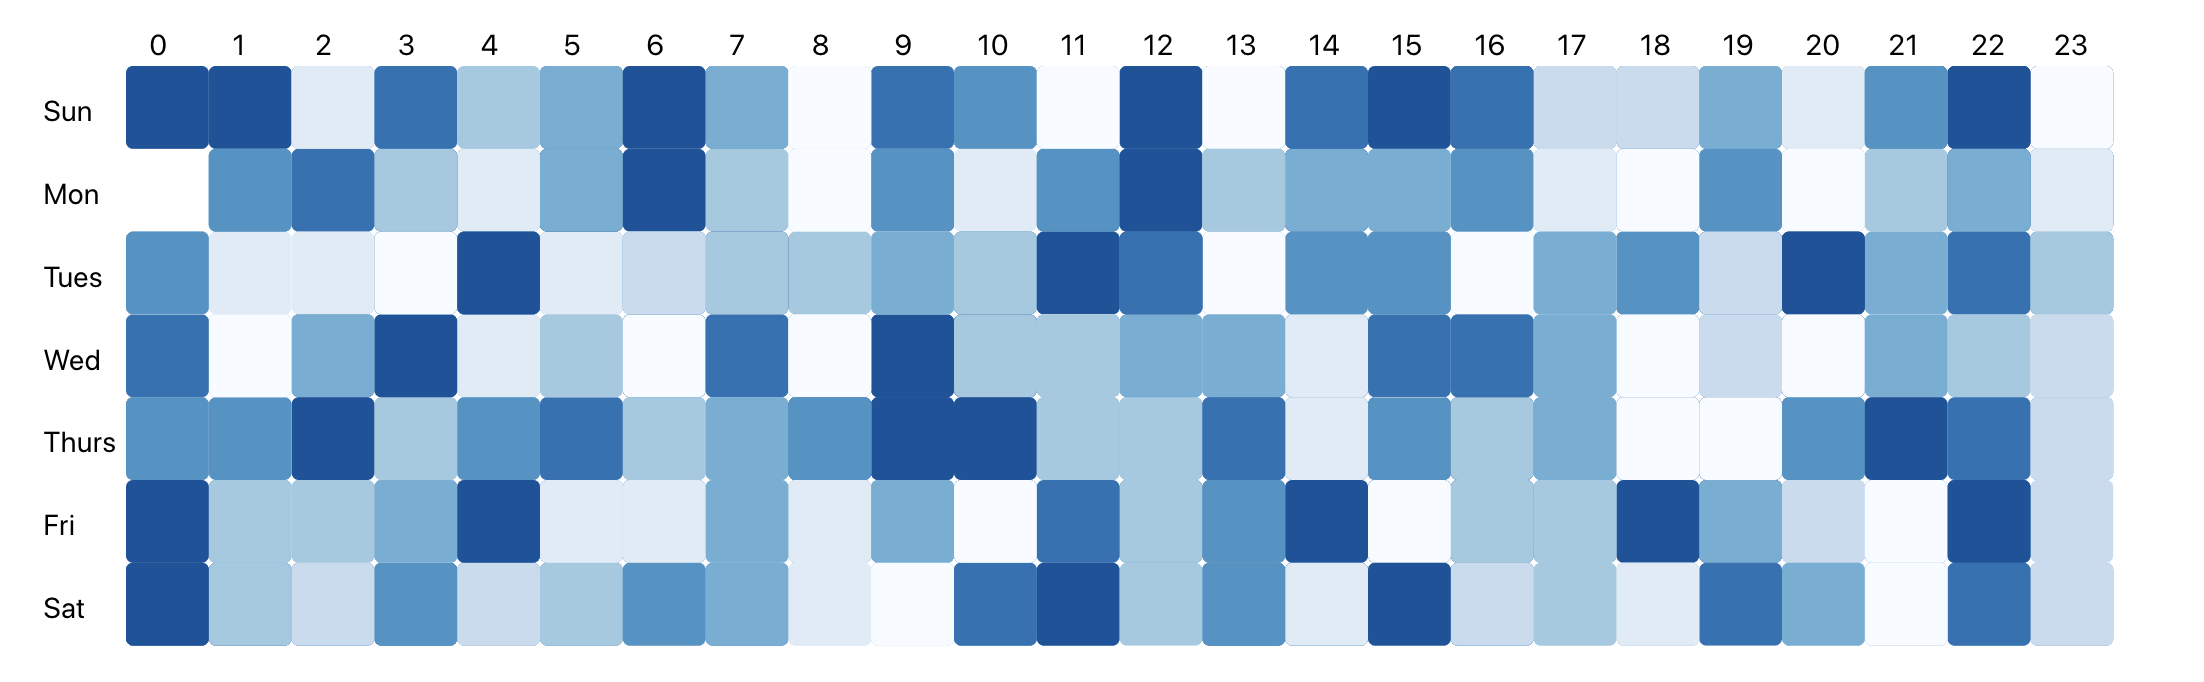
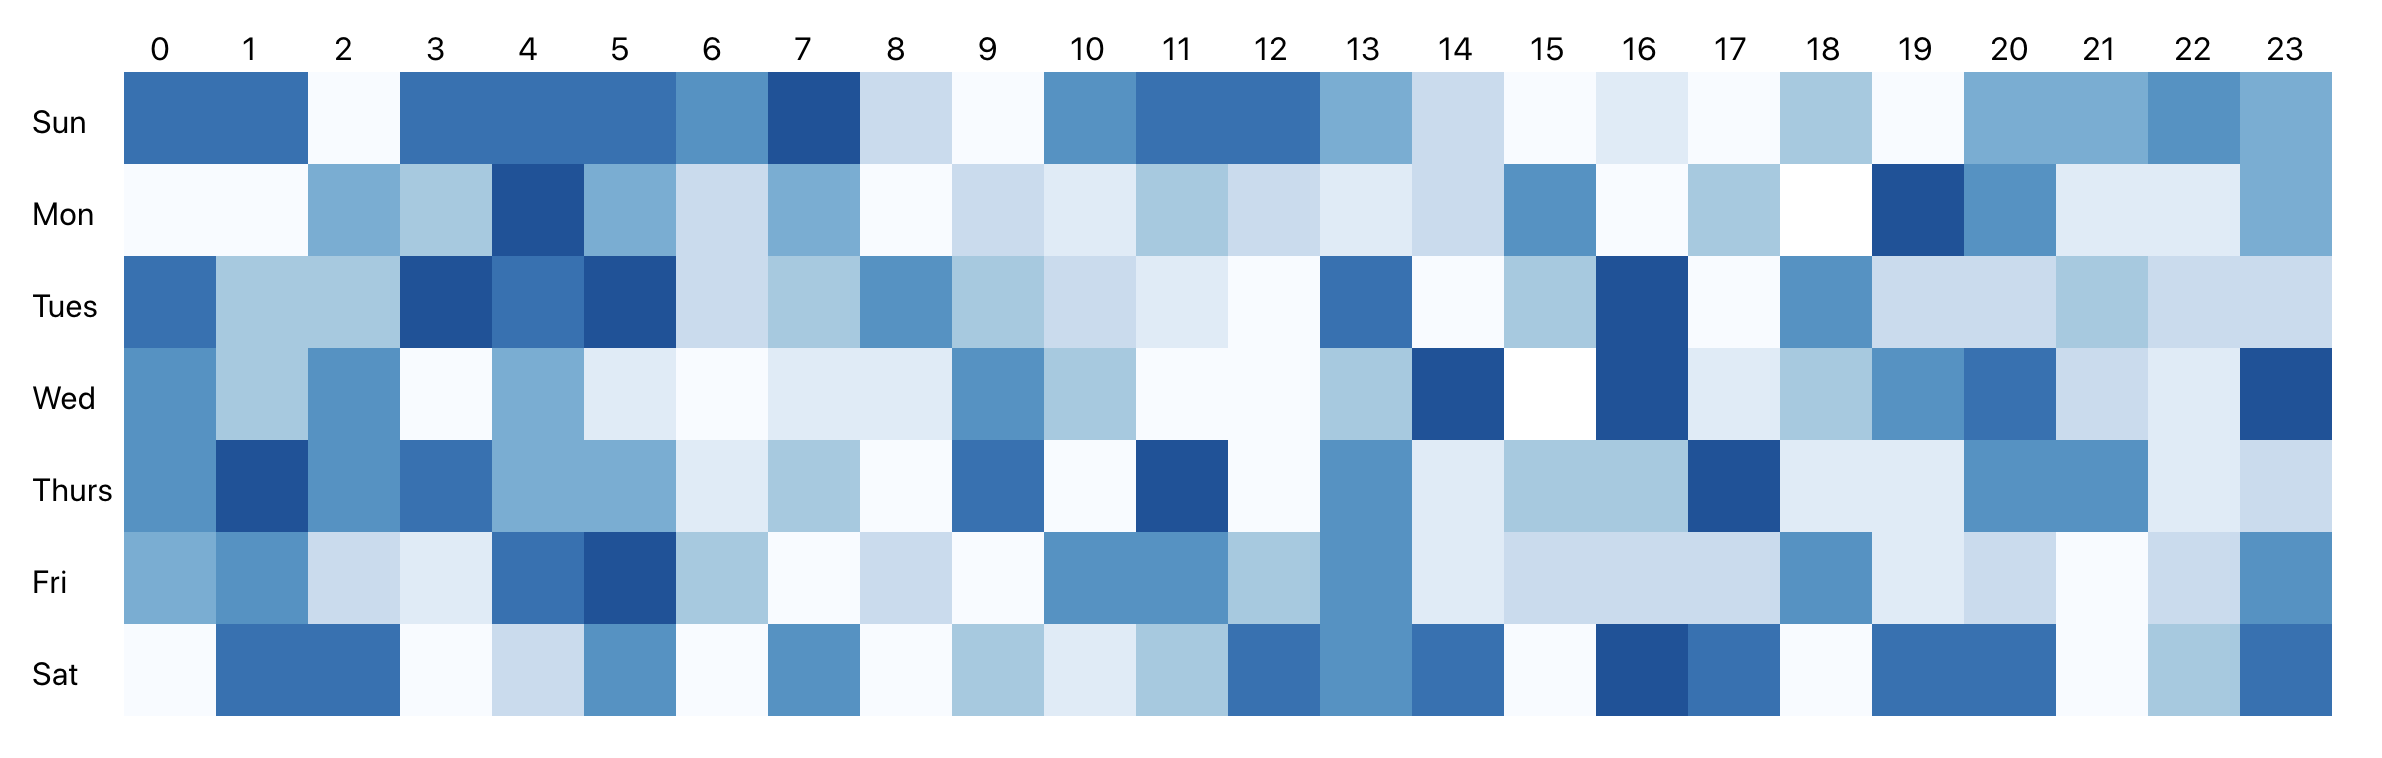
Replaced heatmap image and added to readme

diff --git a/README.md b/README.md
@@ -31,7 +31,10 @@ By completing this workshopathon, you'll learn to:
 ## 🔨 What You'll Build
 You'll be building a web application that displays a heatmap of what days of the week and what time of the day you and your peers (and your instructor) are most actively posting in the discussion forum.
 
-After you've completed this application, you are welcome to use the [tons of data we provide](https://github.com/UBC-LA-Hackathon/student-dashboard/blob/master/5-Create-Advanced-Data-Viz.md#give-me-data) to build innovative new tools and visualizations.
+It should look something like this:
+![heatmap](./_assets/heatmap.png)
+
+After you've completed the heatmap, you can either add more [features to the heatmap](5-Create-Advanced-Data-Viz.md#give-me-ideas) or use the [tons of data we provide](https://github.com/UBC-LA-Hackathon/student-dashboard/blob/master/5-Create-Advanced-Data-Viz.md#give-me-data) to build entirely new tools and visualizations.
 
 ## 🤔 Ask For Help
 We don't expect you to come into the workshopathon with any prior knowledge. You may never have coded before - that's okay! You're here to learn, and we're here to help.
